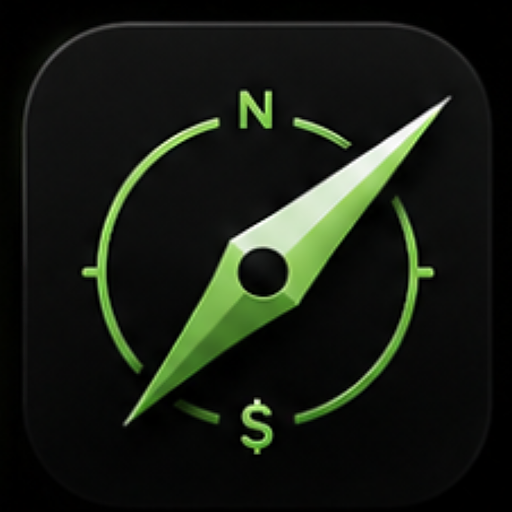
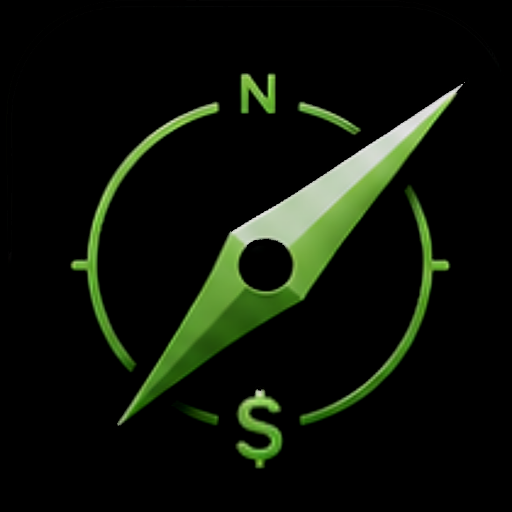
Ícone: fundo preto sólido, sem a linha de contorno
Mesmo desenho de vocês (agulha, anel, N e \$), com dois ajustes finos:
a leve sombra que sobrava ao redor do quadrado arredondado (lida como
"borda branca" contra o preto) foi retirada, e o \$ ficou um pouco maior
que o original, recortado do próprio desenho — nada redesenhado.

Reverte a tentativa seguinte de encolher o N e crescer mais o \$: ela
mexia demais perto dos tiques do anel e deixava marca visível.

Claude-Session: https://claude.ai/code/session_01QuRbab4Lg3dNxH1FdNb6Wq

diff --git a/sw.js b/sw.js
@@ -1,7 +1,7 @@
 // IMPORTANTE: ao publicar uma versão nova do app, mude VERSAO aqui e a constante
 // APP_VERSION no index.html (as duas juntas). É a mudança neste arquivo que faz o
 // navegador perceber que existe versão nova e reinstalar o service worker.
-const VERSAO = '2026.08.08-3';
+const VERSAO = '2026.08.08-4';
 const CACHE_NAME = 'meu-financeiro-' + VERSAO;
 
 const ARQUIVOS_PARA_CACHE = [

diff --git a/index.html b/index.html
@@ -5733,7 +5733,7 @@ function confirmarLancamentoVoz() {
 }
 
     // Versão do app. Ao publicar, mude aqui E a constante VERSAO no sw.js.
-    const APP_VERSION = '2026.08.08-3';
+    const APP_VERSION = '2026.08.08-4';
 
     // Inicialização
     carregarLocalStorage();
